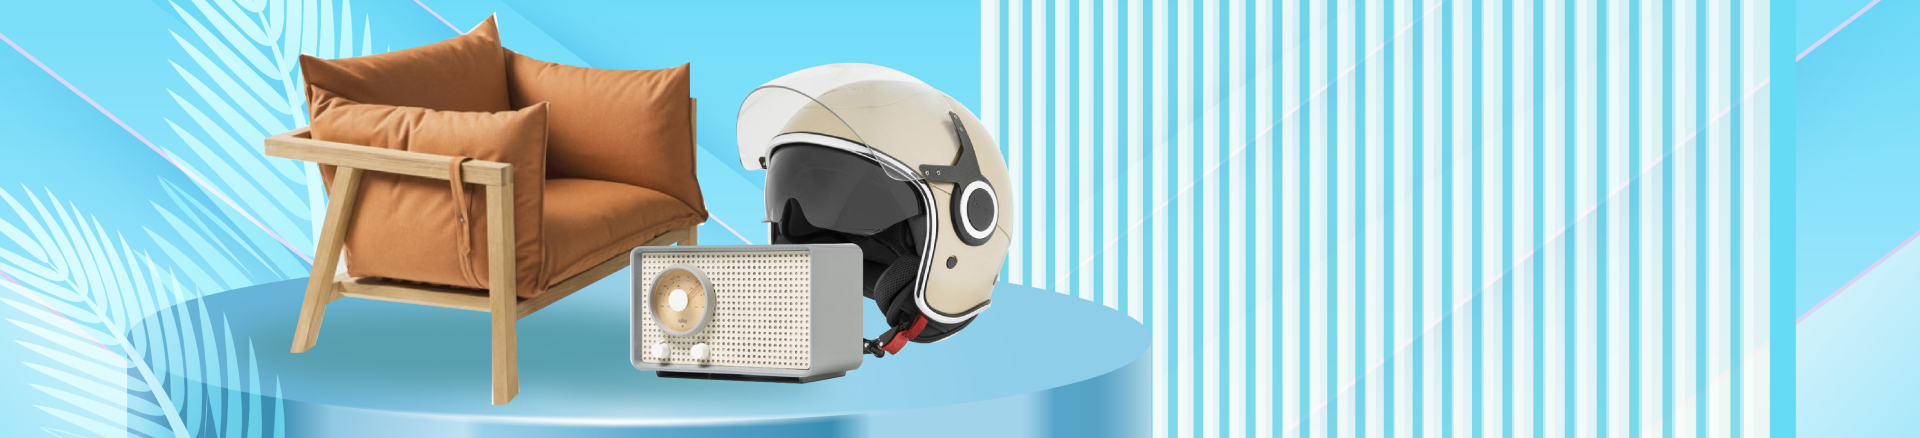
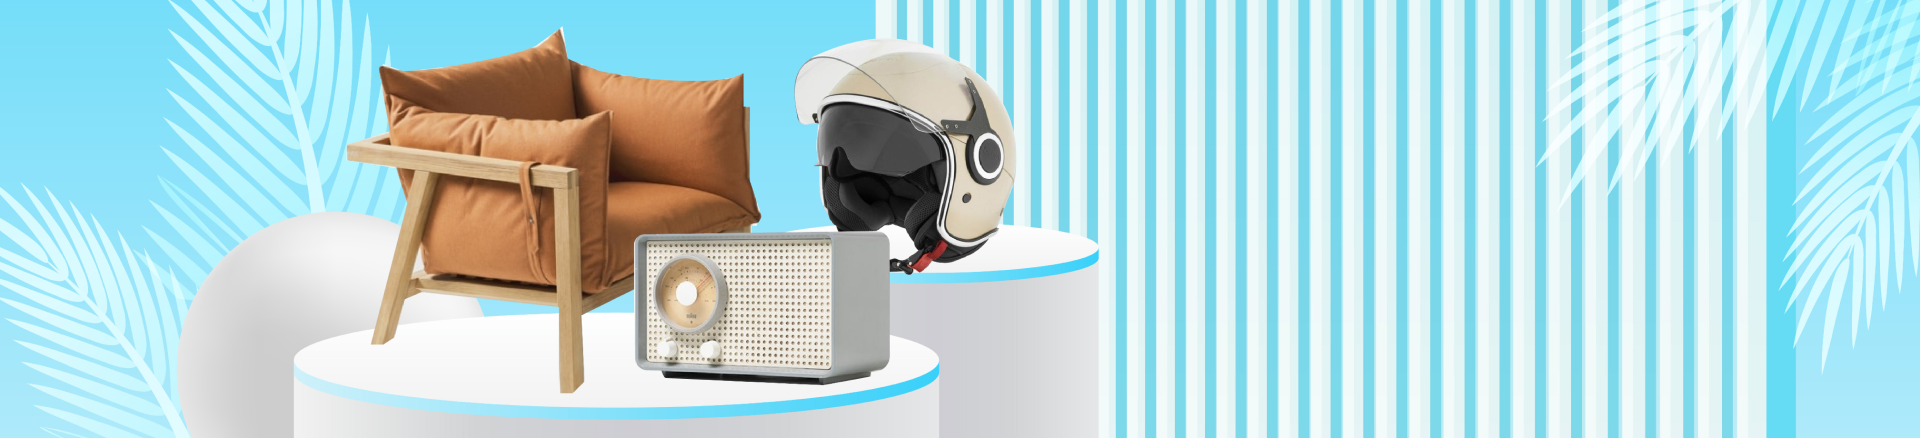
up

diff --git a/src/index.html b/src/index.html
@@ -277,7 +277,7 @@
     </div>
     <div class="bg-[#E8F7FF]">
         <div class="z-[2]">
-            <img class="object-cover block md:hidden h-[241px] w-full" src="./src/assets/img/bg.png" alt="">
+            <img class="object-contain block md:hidden h-[241px] w-full" src="./src/assets/img/bg.png" alt="">
             <img class="object-cover hidden md:block h-[431px] w-full" src="./src/assets/img/bg1.png" alt="">
         </div>
         <!--  -->
